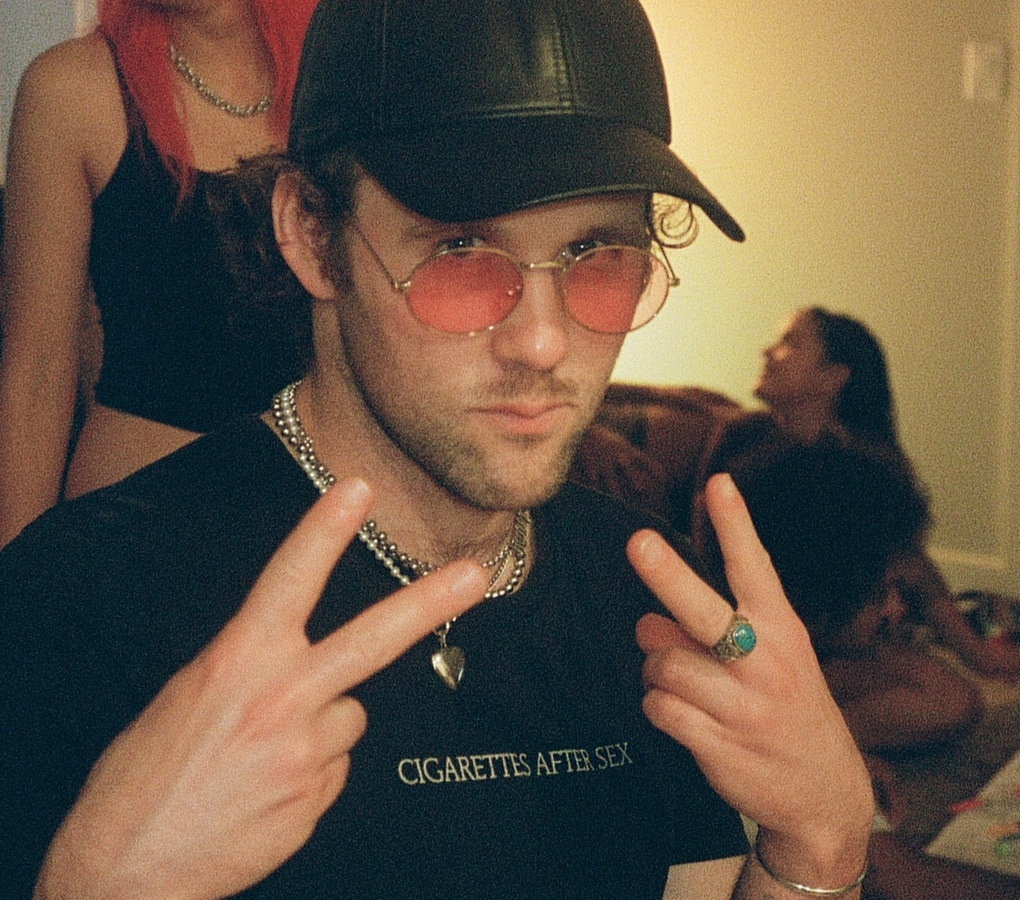
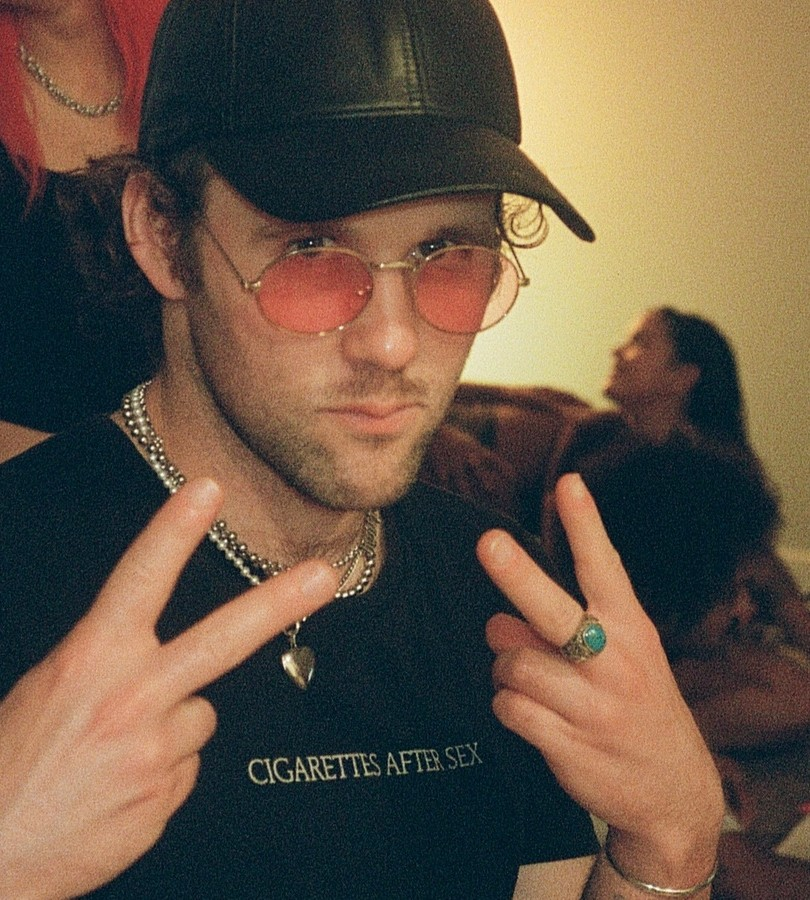
Trenten Barker: tighten photo crop and set incarceration date on his case (#1359)
- Re-crops his photo tighter to center on him (trims the partially-cut
  bystander on the left).
- Fixes the incarceration date: the command previously only set the
  April 30, 2026 date when he had no case, so on prod (where a case
  already existed) the date was never applied. It now sets the date on
  his existing case (creating one only if absent). Idempotent.

Claude-Session: https://claude.ai/code/session_01R8evXJgfk85LbDQLSna2pT

diff --git a/app/Console/Commands/AddTrentenBarker.php b/app/Console/Commands/AddTrentenBarker.php
@@ -10,8 +10,9 @@ use Illuminate\Support\Facades\Storage;
 /**
  * Adds (or updates) Trenten Edward Barker with his BOP locator details and a
  * case at FCI Lompoc II (incarcerated April 30, 2026), and sets his profile
- * photo (cropped 15% on the right) from the committed image. Idempotent;
- * matches an existing record by slug/name so it won't duplicate.
+ * photo (cropped to center on him) from the committed image. The incarceration
+ * date is set on his existing case if he already has one. Idempotent; matches
+ * an existing record by slug/name so it won't duplicate.
  */
 final class AddTrentenBarker extends Command
 {
@@ -63,20 +64,21 @@ final class AddTrentenBarker extends Command
             $this->warn('Source image not found: public/'.self::SOURCE);
         }
 
-        // Case at FCI Lompoc II, incarcerated April 30, 2026 — only if none yet.
-        if ($prisoner->cases()->count() === 0) {
-            $institution = Institution::firstOrCreate(
-                ['name' => 'FCI Lompoc II'],
-                ['city' => 'Lompoc', 'state' => 'California'],
-            );
-
-            $case = $prisoner->cases()->make(['institution_id' => $institution->id]);
-            $case->setPartialDate('incarceration_date', 2026, 4, 30);
-            $case->save();
-            $this->info("Added case at {$institution->name} (incarcerated 2026-04-30).");
-        } else {
-            $this->line('Case(s) already present — left unchanged.');
+        // Ensure his case at FCI Lompoc II carries the incarceration date
+        // (April 30, 2026). Set it on the existing case if he already has one
+        // (so the date isn't skipped when a case was created elsewhere); else
+        // create the case.
+        $institution = Institution::firstOrCreate(
+            ['name' => 'FCI Lompoc II'],
+            ['city' => 'Lompoc', 'state' => 'California'],
+        );
+        $case = $prisoner->cases()->first() ?? $prisoner->cases()->make([]);
+        if (! $case->institution_id) {
+            $case->institution_id = $institution->id;
         }
+        $case->setPartialDate('incarceration_date', 2026, 4, 30);
+        $case->save();
+        $this->info('Set case incarceration date: 2026-04-30 (FCI Lompoc II).');
 
         $this->info("View: /prisoner/{$prisoner->slug}");
 
